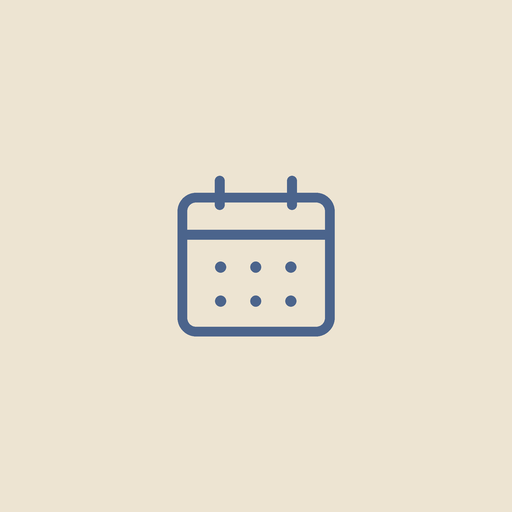
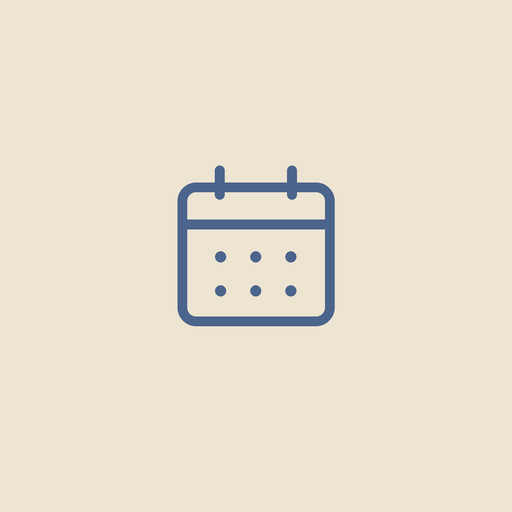
v24: 검색을 미니 돋보기 버튼 + 종이 검색 팝업으로 교체, 공휴일·명절·24절기 검색 추가, 자간 통일(-.005em), 앱 아이콘 마크 2% 위로 이동

Changed region(s): [[0.3438, 0.3125, 0.6562, 0.5312], [0.3438, 0.5625, 0.6562, 0.6562]]

diff --git a/index.html b/index.html
@@ -147,23 +147,26 @@ input::placeholder,textarea::placeholder{color:rgba(var(--ink-rgb),.32)}
 .wkstart input{-webkit-appearance:none;appearance:none;width:11px;height:11px;margin:0;border:1px solid rgba(var(--ink-rgb),.5);border-radius:50%;display:grid;place-items:center;cursor:pointer;transition:border-color .15s}
 .wkstart input:checked{border-color:var(--ink)}
 .wkstart input:checked::after{content:'';width:5px;height:5px;border-radius:50%;background:var(--ink)}
-/* ---------- event search: a magnifier and a hairline, left of m / s ---------- */
-/* the two controls share one optical line with the big month number; the field
-   never grows past its share, so 01–12 · 검색 · m / s stay apart at every width */
+/* ---------- event search: one small magnifier over a short hairline, left of m / s ---------- */
+/* the trigger keeps the radio row's own line height, so the hairline hangs level with
+   m / s at every font size; the paper sheet behind it does the searching */
 .mhead{position:relative}
 .mtools{display:flex;align-items:flex-start;gap:14px;flex:1 1 auto;justify-content:flex-end;min-width:0;padding-top:14px;margin-left:12px}
 .mtools .wkstart{padding-top:0}
-.msearch-wrap{flex:0 1 178px;min-width:0}
-.msearch{display:flex;align-items:center;gap:6px;min-width:0;border-bottom:1px solid var(--line);padding-bottom:4px;transition:border-color .16s}
-.msearch .mag{width:13px;height:13px;flex:0 0 auto;opacity:.5;transition:opacity .16s}
-.msearch input{flex:1 1 auto;min-width:0;width:100%;height:22px;padding:0;font-family:var(--ui);font-size:calc(12.5px*var(--fs-k));letter-spacing:.01em;line-height:1;background:transparent;border:0;outline:none}
-.msearch .sx{flex:0 0 auto;width:16px;height:16px;display:grid;place-items:center;font-size:calc(12px*var(--fs-k));line-height:1;opacity:.42}
-.msearch .sx:hover{opacity:.9}
-.msearch.on{border-bottom-color:rgba(var(--ink-rgb),.72)}
-.msearch.on .mag{opacity:.85}
-/* results: one sheet of paper under the header row, kept inside the page width */
-.sresults{position:absolute;top:calc(100% + 4px);right:0;z-index:36;width:min(430px,100%);max-height:min(58dvh,360px);overflow-y:auto;background:var(--paper);border:1px solid var(--hair);border-radius:2px;box-shadow:0 18px 40px rgba(0,0,0,.16);animation:fade .13s ease}
-.sres{display:flex;align-items:baseline;gap:6px;width:100%;padding:9px 12px;text-align:left;border-bottom:1px dotted var(--dash);font-size:calc(12.5px*var(--fs-k));line-height:1.25}
+.msbtn{
+  position:relative;display:flex;align-items:center;
+  width:71px;height:1em;padding:0 0 4px;box-sizing:content-box;
+  font-size:calc(12.5px*var(--fs-k));line-height:1;
+  color:var(--ink);border-bottom:1px solid var(--line);
+  transition:border-color .16s;
+}
+.msbtn .mag{width:1.04em;height:1.04em;flex:0 0 auto;opacity:.5;transition:opacity .16s}
+.msbtn:hover{border-bottom-color:rgba(var(--ink-rgb),.62)}
+.msbtn:hover .mag,.msbtn:focus-visible .mag{opacity:.85}
+.msbtn::after{content:'';position:absolute;inset:-12px -8px -10px -8px} /* comfortable tap area */
+/* results: a plain list under the query line, scrolled inside the paper sheet */
+.sresults{width:100%;margin-top:6px;border-top:1px solid var(--hair);max-height:min(56dvh,430px);overflow-y:auto}
+.sres{display:flex;align-items:baseline;gap:6px;width:100%;padding:10px 2px;text-align:left;border-bottom:1px dotted var(--dash);font-size:calc(12.5px*var(--fs-k));line-height:1.25}
 .sres:last-child{border-bottom:0}
 .sres:hover{background:var(--soft)}
 .sres .sr-d{flex:0 0 auto;font-family:var(--disp);font-style:italic;font-weight:600;font-size:calc(12px*var(--fs-k));letter-spacing:.03em;font-variant-numeric:tabular-nums}
@@ -176,12 +179,16 @@ input::placeholder,textarea::placeholder{color:rgba(var(--ink-rgb),.32)}
 .sres.sr-go{opacity:.8}
 .sres.sr-go .sr-gl{font-size:calc(11px*var(--fs-k));letter-spacing:.01em;opacity:.85}
 .sres .sr-a{margin-left:auto;font-size:calc(11px*var(--fs-k));opacity:.5;font-style:normal}
-.sr-empty{padding:14px 12px;font-size:calc(11.5px*var(--fs-k));opacity:.5}
+/* a holiday, a traditional day or a 24절기: the name wears the ink the calendar gives it */
+.sres.lb .sr-d{font-size:calc(11px*var(--fs-k));letter-spacing:.02em}
+.sres.lb .sr-l{font-weight:500}
+.sres.lb.k-hol .sr-l,.sres.lb.k-fest .sr-l{color:var(--sun-ink)}
+.sres.lb.k-term .sr-l{color:rgba(var(--ink-rgb),.55)}
+.sres.lb.k-hol .sr-r,.sres.lb.k-fest .sr-r{opacity:.76}
+.sr-empty{padding:16px 2px;font-size:calc(11.5px*var(--fs-k));opacity:.5}
 @media (max-width:760px){
   .mtools{gap:10px;padding-top:10px;margin-left:8px}
-  .msearch-wrap{flex:1 1 auto;max-width:152px}
-  .msearch input{font-size:max(16px,calc(12.5px*var(--fs-k)));height:24px}
-  .msearch .mag{width:12px;height:12px}
+  .msbtn{width:61px}
 }
 
 /* ---------- repeat selector in the day modal ---------- */
@@ -218,7 +225,7 @@ body[data-theme="olive"] .led.on{background:#3E6B48;box-shadow:0 0 0 3px rgba(62
 .cell:hover{background:var(--soft)}
 .cell.pad{cursor:default}
 .cell.pad:hover{background:none}
-.dnum{font-family:var(--ui);font-weight:500;font-size:calc(var(--num-size)*var(--fs-k));letter-spacing:.01em;height:var(--numh);display:flex;align-items:center;font-variant-numeric:tabular-nums;overflow:visible}
+.dnum{font-family:var(--ui);font-weight:500;font-size:calc(var(--num-size)*var(--fs-k));letter-spacing:-.005em;height:var(--numh);display:flex;align-items:center;font-variant-numeric:tabular-nums;overflow:visible}
 .cell.sat .dnum{color:var(--sat-ink);opacity:.8}
 .cell.sun .dnum{color:var(--sun-ink)}
 /* holidays wear the same ink as Sunday, number and label alike */
@@ -231,7 +238,7 @@ body[data-theme="olive"] .led.on{background:#3E6B48;box-shadow:0 0 0 3px rgba(62
 .dnum .hol{color:var(--sun-ink)}
 .dnum .lf{color:var(--sun-ink);opacity:.72}
 .dnum .st{color:var(--ink);opacity:.5;font-weight:500}
-.dnum .ld{color:var(--ink);opacity:.42;font-weight:400;letter-spacing:0;font-variant-numeric:tabular-nums}
+.dnum .ld{color:var(--ink);opacity:.42;font-weight:400;letter-spacing:-.005em;font-variant-numeric:tabular-nums}
 .evts{display:flex;flex-direction:column}
 .evt{
   height:var(--rowh);display:flex;align-items:center;gap:5px;
@@ -489,6 +496,13 @@ body[data-theme="olive"] .led.on{background:#3E6B48;box-shadow:0 0 0 3px rgba(62
 .dhol{font-size:calc(11.5px*var(--fs-k));letter-spacing:.02em;color:var(--sun-ink);margin-top:5px}
 .x{font-size:calc(20px*var(--fs-k));line-height:1;opacity:.45;padding:2px 4px}
 .x:hover{opacity:1}
+/* ---------- search sheet: one ruled query line, the results on paper below it ---------- */
+.modal.smodal{width:min(560px,100%)}
+.smfield{display:flex;align-items:center;gap:8px;margin:16px 0 0;padding-bottom:7px;border-bottom:1px solid rgba(var(--ink-rgb),.55)}
+.smfield .mag{width:calc(14px*var(--fs-k));height:calc(14px*var(--fs-k));flex:0 0 auto;opacity:.5}
+.smfield input{flex:1 1 auto;min-width:0;height:26px;padding:0;font-family:var(--ui);font-size:calc(13.5px*var(--fs-k));letter-spacing:.005em;line-height:1;background:transparent;border:0;outline:none;color:inherit}
+.smfield .sx{flex:0 0 auto;width:24px;height:24px;display:grid;place-items:center;font-size:calc(15px*var(--fs-k));line-height:1;opacity:.4}
+.smfield .sx:hover{opacity:.9}
 .dlist{margin:16px 0 0}
 .ditem{display:flex;align-items:flex-start;gap:10px;padding:9px 0;border-bottom:1px dotted var(--dash);touch-action:manipulation;-webkit-tap-highlight-color:transparent}
 .ditem .time{font-family:var(--disp);font-style:italic;font-size:calc(12px*var(--fs-k));letter-spacing:.05em;opacity:.6;min-width:44px;padding-top:2px;font-variant-numeric:tabular-nums}
@@ -602,6 +616,8 @@ body[data-theme="olive"] .led.on{background:#3E6B48;box-shadow:0 0 0 3px rgba(62
   .etitle{font-size:calc(24px*var(--fs-k))}
   .modal{padding:20px 18px;max-height:92dvh}
   .modal-h .d{font-size:calc(28px*var(--fs-k))}
+  /* an input under 16px makes iOS Safari zoom the whole sheet in on focus */
+  .smfield input{font-size:max(16px,calc(13.5px*var(--fs-k)))}
   .doc-sheet{padding:24px 20px}
   .canvas{min-height:0}
   .mlist{max-height:none}
@@ -1108,8 +1124,8 @@ let openBackup = false;
 let editEvent = null;    // id of the event being edited inside the day modal
 let editRepeat = null;   // the repeat the edit form is showing (null = the event's own)
 let newRepeat = 'none';  // the repeat picked for the event about to be added
-let searchQ = '';        // what is typed into the monthly search field
-let searchOpen = false;
+let searchQ = '';        // what is typed into the search sheet
+let searchModalOpen = false;
 let pendingOpenDay = null;   // a search hit that must open its day modal after the jump
 let syncBusy = false;
 
@@ -1120,7 +1136,7 @@ function go(hash){
   location.hash = hash;
 }
 function setRoute(){
-  R = parseRoute(); openDay = null; openBackup = false;
+  R = parseRoute(); openDay = null; openBackup = false; searchModalOpen = false;
   if(ywheelOpen) closeYearWheel();
   if(R.view==='cover') coverQuote = pickQuote();
   if(R.view==='monthly'){ S.lastMonth = R.month; monthQuote = pickQuote(); }
@@ -1346,10 +1362,46 @@ function searchHits(raw){
   }
   return {jumps:[], hits: keywordHits(q).slice(0,60)};
 }
+/* the words the calendar itself writes beside a day number — 공휴일, 전통 명절,
+   24절기 — searched straight from the built-in tables */
+function builtinHolidayOn(ds){
+  const live = (S.google && S.google.holCache && S.google.holCache[ds.slice(0,4)]) || null;
+  return (live && live[ds]) || HOLIDAYS[ds] || null;
+}
+function labelHits(raw){
+  const needle = String(raw||'').trim().toLowerCase();
+  if(!needle || needle.length > 14) return [];
+  const out = [];
+  [S.year, S.year+1, S.year-1, S.year+2].forEach(y=>{
+    if(y < YEAR_MIN || y > YEAR_MAX) return;
+    for(let m=1;m<=12;m++){
+      const total = daysInMonth(y,m);
+      for(let d=1;d<=total;d++){
+        const ds = iso(y,m,d);
+        const hol = builtinHolidayOn(ds);
+        if(hol && hol.toLowerCase().includes(needle)) out.push({date:ds, kind:'hol', label:hol});
+        const l = lunarDate(ds);
+        const feast = lunarFeast(ds, l);
+        if(feast && feast[0].toLowerCase().includes(needle)) out.push({date:ds, kind:'fest', label:feast[0]});
+        const term = solarTerm(ds);
+        if(term && term.toLowerCase().includes(needle)) out.push({date:ds, kind:'term', label:term});
+      }
+    }
+  });
+  /* one row per day and word, the planner's own year first */
+  const seen = new Set(), rows = [];
+  out.forEach(r=>{ const k = r.date + '|' + r.label; if(seen.has(k)) return; seen.add(k); rows.push(r); });
+  rows.sort((a,b)=>{
+    const ra = Math.abs(+a.date.slice(0,4) - S.year), rb = Math.abs(+b.date.slice(0,4) - S.year);
+    return ra - rb || a.date.localeCompare(b.date);
+  });
+  return rows.slice(0,24);
+}
 function searchResultsHTML(raw){
   const q = String(raw||'').trim();
   if(!q) return '';
   const {jumps, hits} = searchHits(q);
+  const labels = labelHits(q);
   const parts = [];
   jumps.forEach(j=>{
     const y = +j.date.slice(0,4), m = +j.date.slice(5,7), d = +j.date.slice(8,10);
@@ -1359,6 +1411,17 @@ function searchResultsHTML(raw){
     }else{
       parts.push(`<button class="sres sr-go" data-act="search-go" data-jump="month" data-val="${j.date}"><span class="sr-gl"><span class="sr-d">${y}. ${m}월</span>로 이동</span><span class="sr-a">↗</span></button>`);
     }
+  });
+  labels.forEach(r=>{
+    const y = +r.date.slice(0,4), m = +r.date.slice(5,7), d = +r.date.slice(8,10);
+    const wd = WDAY_KO[new Date(y, m-1, d).getDay()];
+    const tag = r.kind === 'term' ? '절기' : (r.kind === 'fest' ? '명절' : '공휴일');
+    parts.push(`<button class="sres lb k-${r.kind}" data-act="search-go" data-jump="day" data-val="${r.date}">
+      <span class="sr-d">${y}.${pad(m)}.${pad(d)}</span>
+      <span class="sr-w">(${wd})</span>
+      <span class="sr-l">${esc(r.label)}</span>
+      <span class="sr-r">${tag}</span>
+    </button>`);
   });
   hits.forEach(e=>{
     const y = +e.date.slice(0,4), m = +e.date.slice(5,7), d = +e.date.slice(8,10);
@@ -1374,20 +1437,27 @@ function searchResultsHTML(raw){
       ${rep ? `<span class="sr-r">${rep}</span>` : ''}
     </button>`);
   });
-  if(!hits.length) parts.push(`<div class="sr-empty">${esc(q)}에 맞는 일정이 없습니다.</div>`);
+  if(!labels.length && !hits.length) parts.push(`<div class="sr-empty">${esc(q)}에 맞는 일정·공휴일·절기가 없습니다.</div>`);
   return parts.join('');
 }
-function searchPanelHTML(){
-  const q = String(searchQ||'').trim();
-  return `<div class="sresults" id="evresults"${q ? '' : ' hidden'}>${q ? searchResultsHTML(q) : ''}</div>`;
+function openSearchUI(){
+  searchQ = ''; searchModalOpen = true;
+  renderModal();
+  requestAnimationFrame(()=>{
+    const inp = document.getElementById('smodal-input');
+    if(inp){ inp.focus(); inp.setSelectionRange(inp.value.length, inp.value.length); }
+  });
 }
 function closeSearchUI(){
-  searchQ = ''; searchOpen = false;
-  const box = document.getElementById('evresults');
-  if(box){ box.hidden = true; box.innerHTML = ''; }
-  const w = document.getElementById('msearch'); if(w) w.classList.remove('on');
-  const inp = document.getElementById('evsearch'); if(inp) inp.value = '';
-  const cl = document.getElementById('evclear'); if(cl) cl.hidden = true;
+  searchQ = '';
+  if(searchModalOpen){ searchModalOpen = false; renderModal(); }
+}
+/* typing in the sheet redraws only the list, so the caret never leaves the field */
+function paintSearchResults(){
+  const box = document.getElementById('smodal-results');
+  const cl = document.getElementById('smodal-clear');
+  if(box){ box.innerHTML = searchResultsHTML(searchQ); box.hidden = !String(searchQ).trim(); box.scrollTop = 0; }
+  if(cl) cl.hidden = !String(searchQ).trim();
 }
 function fmtTime(t){ if(!t) return ''; const [h,mi]=t.split(':'); const H=+h; const ap=H<12?'오전':'오후'; const hh=H%12===0?12:H%12; return `${ap} ${hh}:${mi}`; }
 function timeAgo(ts){
@@ -2597,14 +2667,9 @@ function renderMonthly(){
   <div class="mhead">
     <div class="mnum">${pad(m)}</div>
     <div class="mtools">
-      <div class="msearch-wrap">
-        <div class="msearch${searchQ.trim()?' on':''}" id="msearch">
-          <svg class="mag" viewBox="0 0 24 24" fill="none" stroke="currentColor" stroke-width="1.7" stroke-linecap="round" aria-hidden="true"><circle cx="10.6" cy="10.6" r="6.4"/><path d="M15.4 15.4 20 20"/></svg>
-          <input id="evsearch" type="text" data-act="evsearch" value="${esc(searchQ)}" placeholder="검색" aria-label="일정 검색" autocomplete="off" autocapitalize="off" spellcheck="false" enterkeyhint="search">
-          <button class="sx" id="evclear" data-act="evsearch-clear" aria-label="검색 지우기"${searchQ?'':' hidden'}>×</button>
-        </div>
-        ${searchPanelHTML()}
-      </div>
+      <button class="msbtn" data-act="search-open" aria-label="검색" aria-haspopup="dialog" title="검색">
+        <svg class="mag" viewBox="0 0 24 24" fill="none" stroke="currentColor" stroke-width="1.7" stroke-linecap="round" aria-hidden="true"><circle cx="10.6" cy="10.6" r="6.4"/><path d="M15.4 15.4 20 20"/></svg>
+      </button>
       <div class="wkstart" role="radiogroup" aria-label="주 시작 요일">
         <label title="월요일 시작"><input type="radio" name="wkstart" value="m" data-act="wkstart" ${ws==='m'?'checked':''}><span>m</span></label>
         <label title="일요일 시작"><input type="radio" name="wkstart" value="s" data-act="wkstart" ${ws==='s'?'checked':''}><span>s</span></label>
@@ -2905,9 +2970,31 @@ function renderModal(){
     </div>`;
   } else if(openBackup){
     root.innerHTML = renderBackupModal();
+  } else if(searchModalOpen){
+    root.innerHTML = renderSearchModal();
   } else {
     root.innerHTML = '';
   }
+}
+
+/* the search sheet: the same paper as the day modal, one ruled line to type on,
+   and the hits listed under it (built-in 공휴일·명절·절기 first, then the events) */
+function renderSearchModal(){
+  const q = String(searchQ||'').trim();
+  return `<div class="scrim" data-act="search-close">
+    <div class="modal smodal" data-stop="1" role="dialog" aria-modal="true" aria-label="검색">
+      <div class="modal-h">
+        <div><span class="d">Search</span><span class="dw">일정 · 날짜 · 공휴일 · 절기</span></div>
+        <button class="x" data-act="search-close" aria-label="검색 닫기">×</button>
+      </div>
+      <div class="smfield">
+        <svg class="mag" viewBox="0 0 24 24" fill="none" stroke="currentColor" stroke-width="1.7" stroke-linecap="round" aria-hidden="true"><circle cx="10.6" cy="10.6" r="6.4"/><path d="M15.4 15.4 20 20"/></svg>
+        <input id="smodal-input" type="text" data-act="smodal-q" value="${esc(searchQ)}" placeholder="일정, 날짜, 공휴일·절기 검색" aria-label="검색어" autocomplete="off" autocapitalize="off" spellcheck="false" enterkeyhint="search">
+        <button class="sx" id="smodal-clear" data-act="smodal-clear" aria-label="검색어 지우기"${q?'':' hidden'}>×</button>
+      </div>
+      <div class="sresults" id="smodal-results"${q?'':' hidden'}>${q? searchResultsHTML(searchQ):''}</div>
+    </div>
+  </div>`;
 }
 
 function renderBackupModal(){
@@ -3001,8 +3088,6 @@ document.addEventListener('touchend', e=>{
 }, {capture:true, passive:true});
 document.addEventListener('touchcancel', ()=>{ swipeStart = null; }, {capture:true, passive:true});
 document.addEventListener('click', e=>{
-  /* anything outside the search field closes its results */
-  if(searchOpen && !e.target.closest('.msearch-wrap')) closeSearchUI();
   const el = e.target.closest('[data-act]');
   if(!el) return;
   const act = el.dataset.act, val = el.dataset.val;
@@ -3010,8 +3095,8 @@ document.addEventListener('click', e=>{
   if(act==='open-day' && Date.now() - swipeAt < 450) return;
   /* Only the backdrop itself closes a modal — clicks on inputs or empty space
      inside the modal bubble up to the scrim and used to dismiss it. */
-  if((act==='close-modal'||act==='close-backup') && el.classList.contains('scrim') && e.target!==el) return;
-  if(act==='search'||act==='evsearch'||act==='memo-title'||act==='memo-text'||act==='check-edit'||act==='check-new') return;
+  if((act==='close-modal'||act==='close-backup'||act==='search-close') && el.classList.contains('scrim') && e.target!==el) return;
+  if(act==='search'||act==='smodal-q'||act==='memo-title'||act==='memo-text'||act==='check-edit'||act==='check-new') return;
   if(act==='wkstart'||act==='holiday-toggle'||act==='scope-toggle') return;
   if(CLICK_ACTS.has(act)) uiClick();
   switch(act){
@@ -3277,7 +3362,15 @@ document.addEventListener('click', e=>{
       go('/monthly/' + m);
       break;
     }
-    case 'evsearch-clear': { closeSearchUI(); const inp = document.getElementById('evsearch'); if(inp) inp.focus(); break; }
+    case 'search-open': openSearchUI(); break;
+    case 'search-close': closeSearchUI(); break;
+    case 'smodal-clear': {
+      searchQ = '';
+      const inp = document.getElementById('smodal-input');
+      if(inp){ inp.value = ''; inp.focus(); }
+      paintSearchResults();
+      break;
+    }
     case 'acct-open': googleSwitchAccount(); break;
     case 'backup-run': docsBackup(); break;
     case 'backup-restore': docsRestore(); break;
@@ -3295,19 +3388,9 @@ document.addEventListener('input', e=>{
       row.style.display = txt.includes(q)? '' : 'none';
     });
   }
-  else if(act==='evsearch'){
+  else if(act==='smodal-q'){
     searchQ = el.value;
-    searchOpen = true;
-    const box = document.getElementById('evresults');
-    const wrap = document.getElementById('msearch');
-    const cl = document.getElementById('evclear');
-    if(box){
-      box.innerHTML = searchResultsHTML(searchQ);
-      box.hidden = !String(searchQ).trim();
-      box.scrollTop = 0;
-    }
-    if(wrap) wrap.classList.toggle('on', !!String(searchQ).trim());
-    if(cl) cl.hidden = !searchQ;
+    paintSearchResults();
   }
   else if(act==='memo-title'){
     const m = S.memos.find(x=>x.id===el.dataset.val); if(!m) return;
@@ -3381,13 +3464,13 @@ document.addEventListener('keydown', e=>{
     e.preventDefault(); document.querySelector('[data-act="day-save"]')?.click(); return;
   }
   if(e.key==='Escape'){
-    if(searchOpen || searchQ){ closeSearchUI(); return; }
+    if(searchModalOpen){ closeSearchUI(); return; }
     if(document.getElementById('calpop').classList.contains('on')){ closeCalPop(); return; }
     if(editEvent){ editEvent = null; renderModal(); }
     else if(openDay){ openDay=null; renderModal(); }
     else if(openBackup){ openBackup=false; renderModal(); }
   }
-  if((e.key==='ArrowLeft'||e.key==='ArrowRight') && R.view==='monthly' && !/INPUT|TEXTAREA|SELECT/.test(document.activeElement.tagName)){
+  if((e.key==='ArrowLeft'||e.key==='ArrowRight') && R.view==='monthly' && !searchModalOpen && !openDay && !openBackup && !/INPUT|TEXTAREA|SELECT/.test(document.activeElement.tagName)){
     stepMonth(e.key==='ArrowRight'?1:-1);
   }
 });

diff --git a/sw.js b/sw.js
@@ -5,7 +5,7 @@
    straight to the network.
    Bump CACHE when the shell changes so old copies are dropped.
    ========================================================= */
-const CACHE = 'mp27-v23';
+const CACHE = 'mp27-v24';
 
 /* the whole app is these six files (the fonts live inside index.html) */
 const SHELL = [
